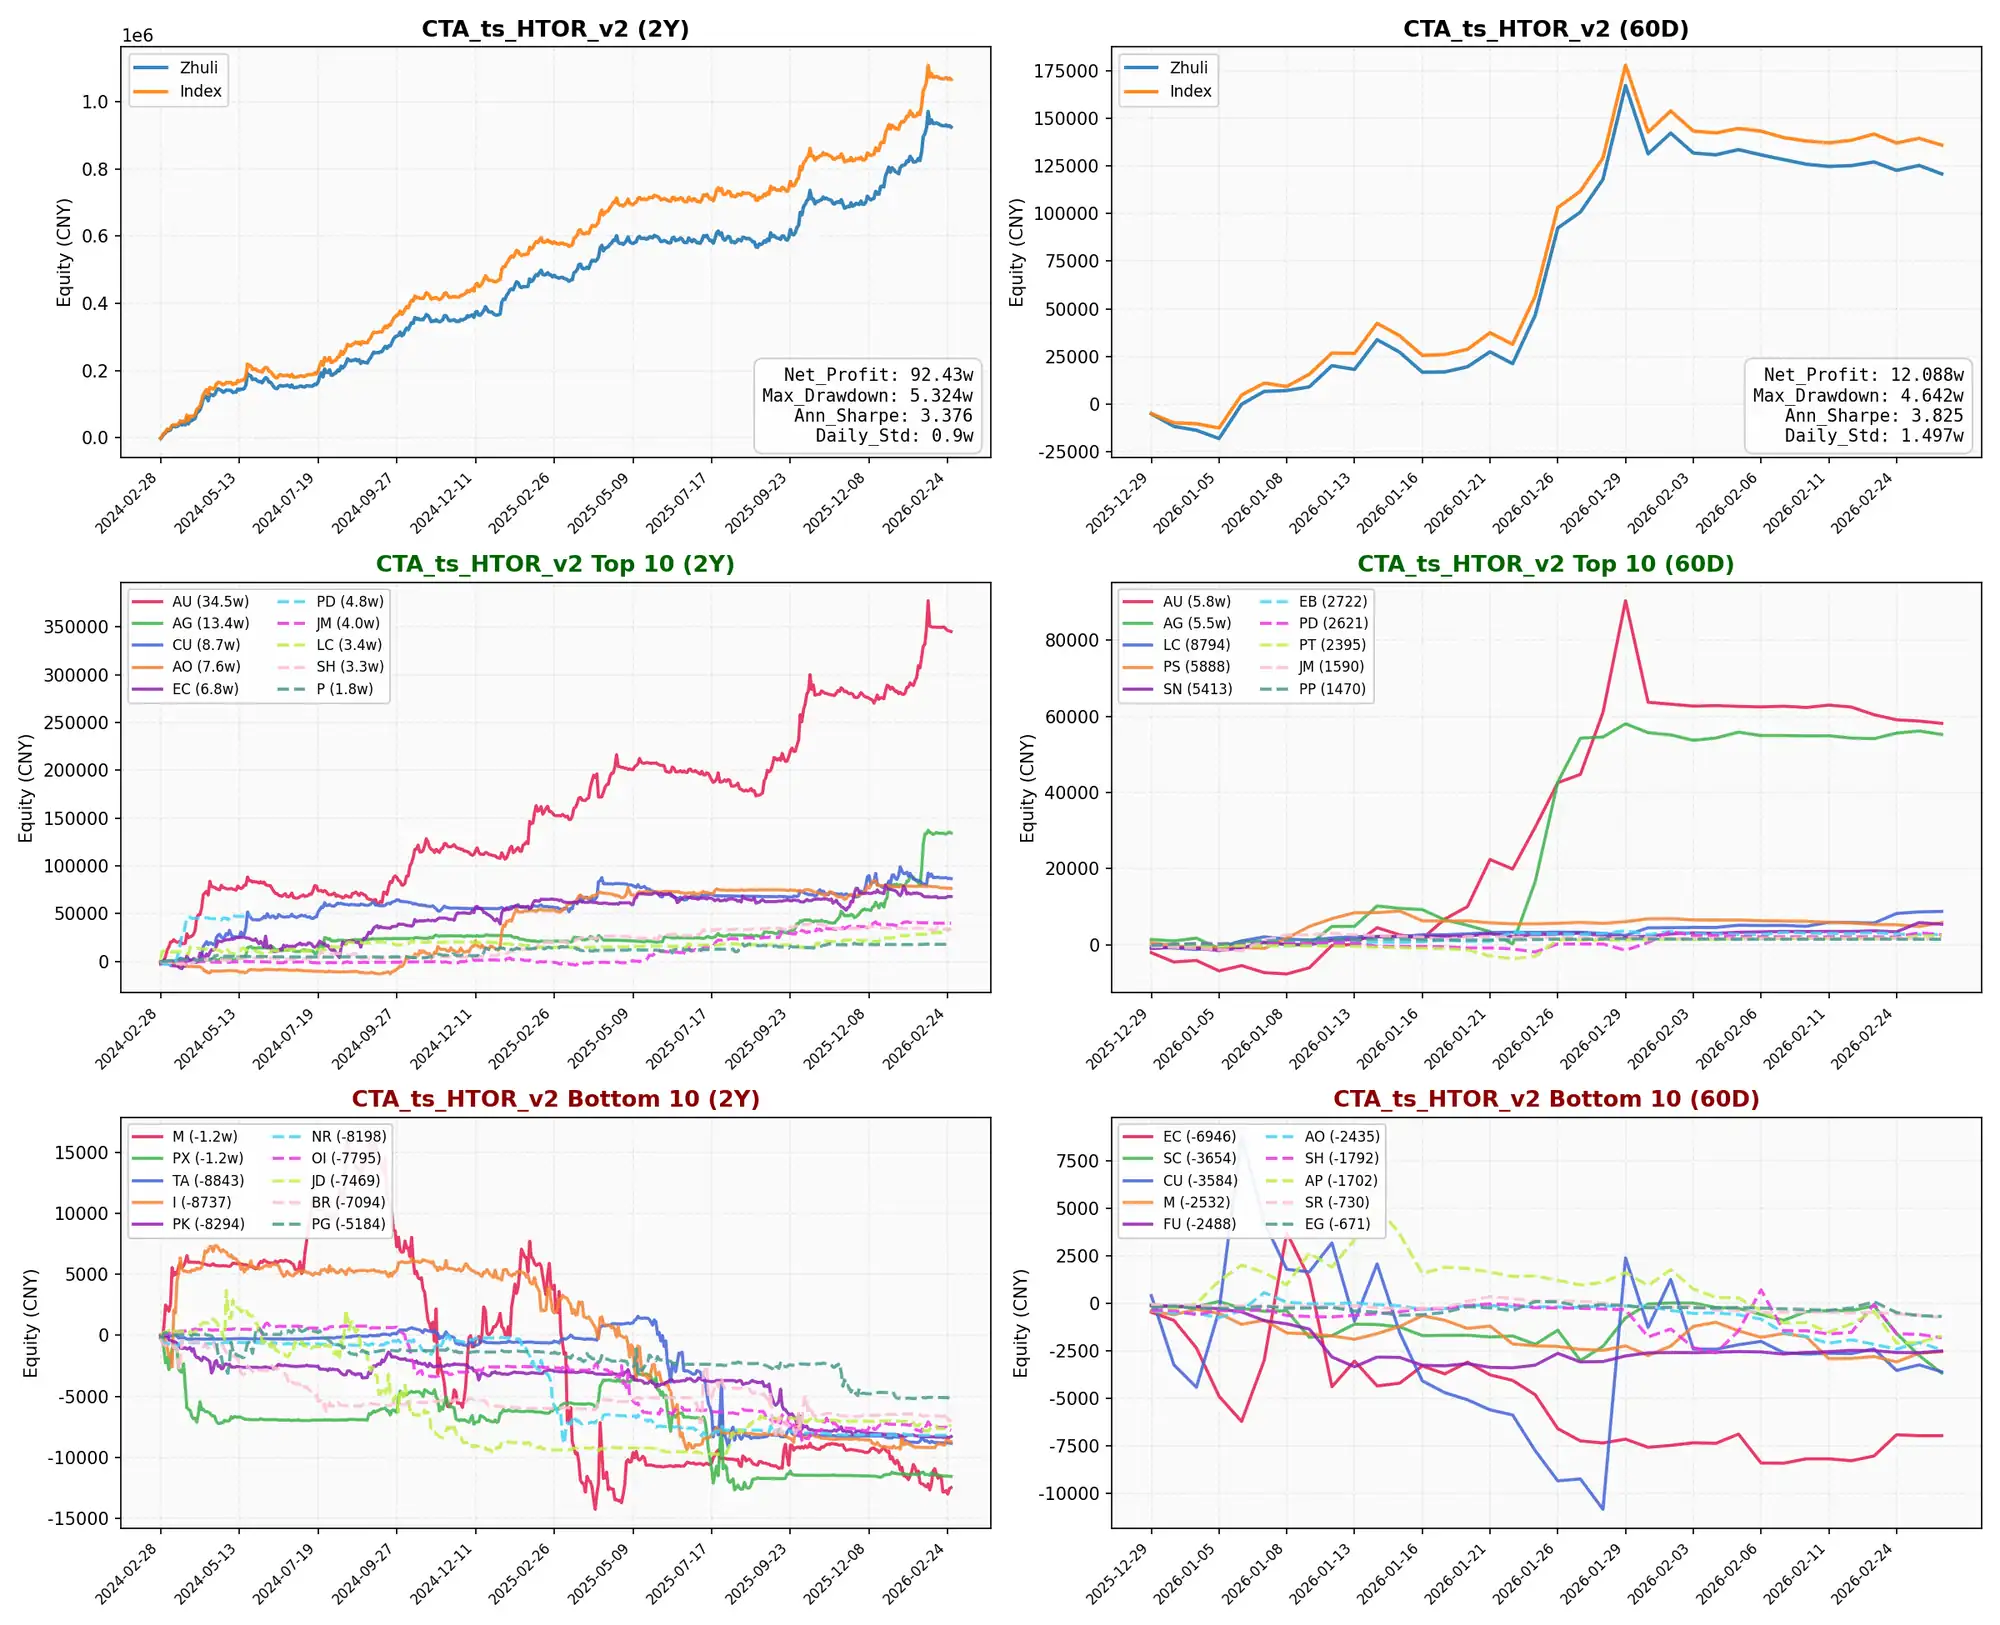
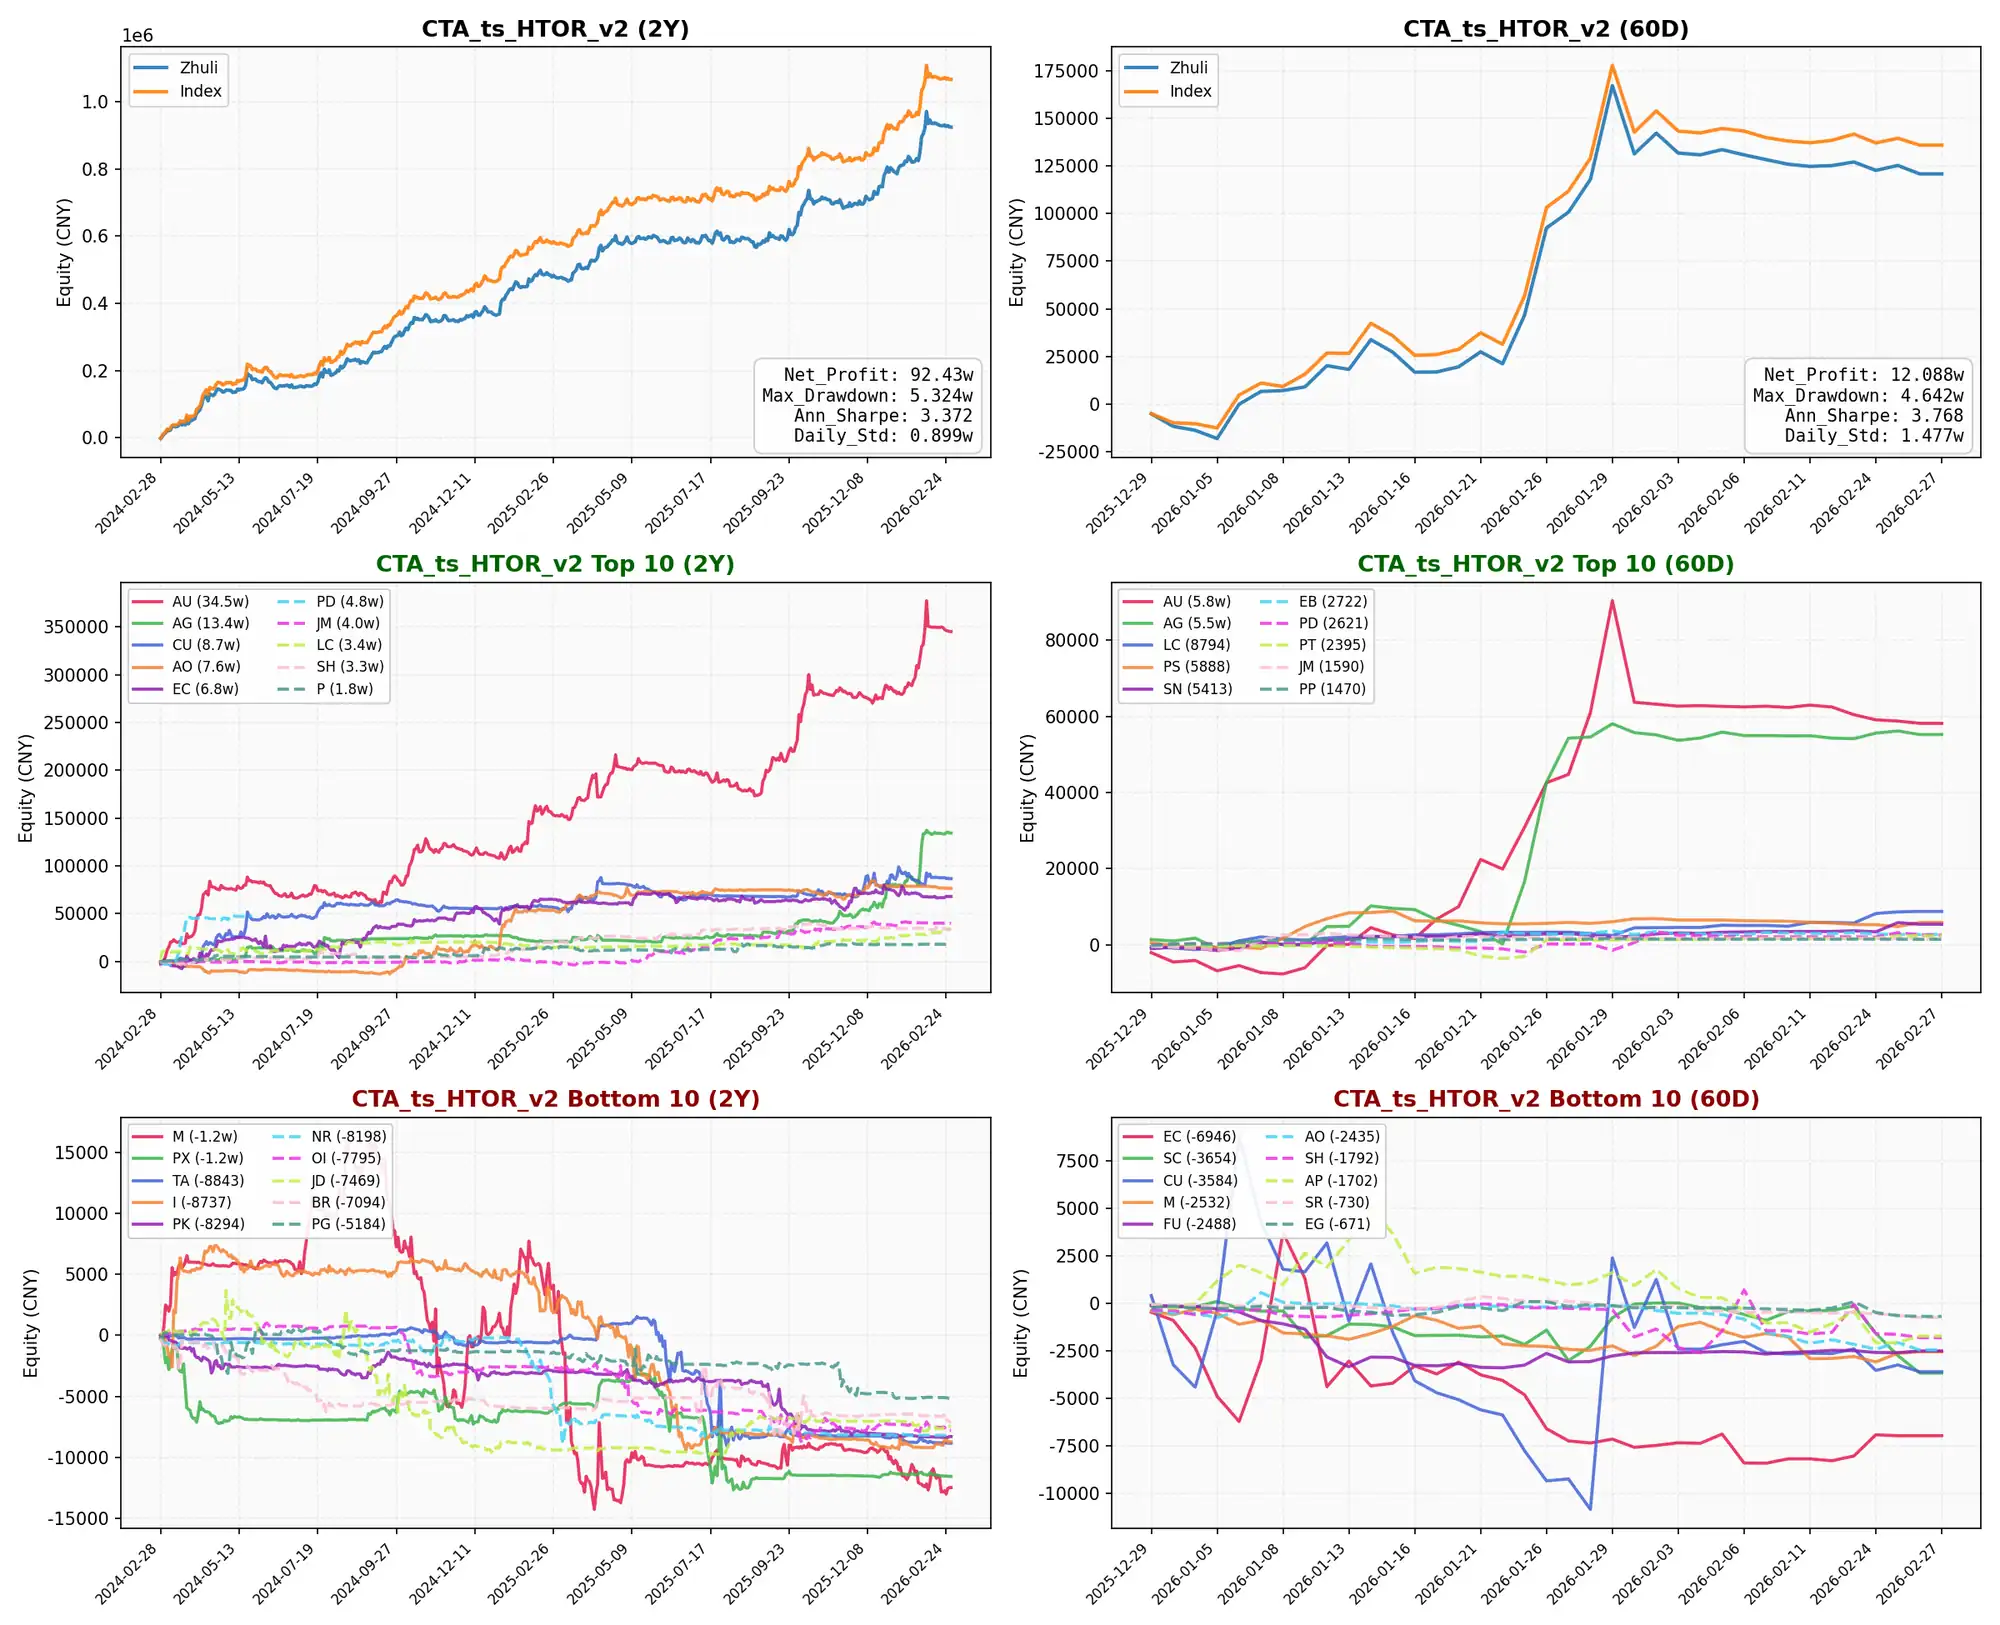
update 2026-02-27

diff --git a/group/index.html b/group/index.html
@@ -172,7 +172,7 @@
         <span class="rank">#5</span>
         <span class="name">CTA_ts_HTOR_v2</span>
         <span class="badge">60D Profit: 12.088w</span>
-        <span class="badge badge-sharpe">Sharpe: 3.825</span>
+        <span class="badge badge-sharpe">Sharpe: 3.768</span>
         <span class="badge badge-dd">MaxDD: 4.642w</span>
         <span class="toggle-icon">▼</span>
       </div>
@@ -181,12 +181,12 @@
           <table class="kpi-table">
             <tr><th colspan="4">2Y KPI</th></tr>
             <tr><td class="kpi-label">Net_Profit</td><td class="kpi-val">92.43w</td><td class="kpi-label">Max_Drawdown</td><td class="kpi-val">5.324w</td></tr>
-            <tr><td class="kpi-label">Ann_Sharpe</td><td class="kpi-val">3.376</td><td class="kpi-label">Daily_Std</td><td class="kpi-val">0.9w</td></tr>
+            <tr><td class="kpi-label">Ann_Sharpe</td><td class="kpi-val">3.372</td><td class="kpi-label">Daily_Std</td><td class="kpi-val">0.899w</td></tr>
           </table>
           <table class="kpi-table">
             <tr><th colspan="4">60D KPI</th></tr>
             <tr><td class="kpi-label">Net_Profit</td><td class="kpi-val">12.088w</td><td class="kpi-label">Max_Drawdown</td><td class="kpi-val">4.642w</td></tr>
-            <tr><td class="kpi-label">Ann_Sharpe</td><td class="kpi-val">3.825</td><td class="kpi-label">Daily_Std</td><td class="kpi-val">1.497w</td></tr>
+            <tr><td class="kpi-label">Ann_Sharpe</td><td class="kpi-val">3.768</td><td class="kpi-label">Daily_Std</td><td class="kpi-val">1.477w</td></tr>
           </table>
         </div>
         <img class="chart-img" data-src="CTA_ts_HTOR_v2.webp" alt="CTA_ts_HTOR_v2">
@@ -347,7 +347,7 @@
         <span class="rank">#12</span>
         <span class="name">ifp_complex_group</span>
         <span class="badge">60D Profit: 6.259w</span>
-        <span class="badge badge-sharpe">Sharpe: 1.826</span>
+        <span class="badge badge-sharpe">Sharpe: 1.8</span>
         <span class="badge badge-dd">MaxDD: 4.706w</span>
         <span class="toggle-icon">▼</span>
       </div>
@@ -356,12 +356,12 @@
           <table class="kpi-table">
             <tr><th colspan="4">2Y KPI</th></tr>
             <tr><td class="kpi-label">Net_Profit</td><td class="kpi-val">152.154w</td><td class="kpi-label">Max_Drawdown</td><td class="kpi-val">8.321w</td></tr>
-            <tr><td class="kpi-label">Ann_Sharpe</td><td class="kpi-val">3.956</td><td class="kpi-label">Daily_Std</td><td class="kpi-val">1.263w</td></tr>
+            <tr><td class="kpi-label">Ann_Sharpe</td><td class="kpi-val">3.951</td><td class="kpi-label">Daily_Std</td><td class="kpi-val">1.262w</td></tr>
           </table>
           <table class="kpi-table">
             <tr><th colspan="4">60D KPI</th></tr>
             <tr><td class="kpi-label">Net_Profit</td><td class="kpi-val">6.259w</td><td class="kpi-label">Max_Drawdown</td><td class="kpi-val">4.706w</td></tr>
-            <tr><td class="kpi-label">Ann_Sharpe</td><td class="kpi-val">1.826</td><td class="kpi-label">Daily_Std</td><td class="kpi-val">1.138w</td></tr>
+            <tr><td class="kpi-label">Ann_Sharpe</td><td class="kpi-val">1.8</td><td class="kpi-label">Daily_Std</td><td class="kpi-val">1.122w</td></tr>
           </table>
         </div>
         <img class="chart-img" data-src="ifp_complex_group.webp" alt="ifp_complex_group">
@@ -497,7 +497,7 @@
         <span class="rank">#18</span>
         <span class="name">CTA_ts_ltor</span>
         <span class="badge">60D Profit: -2.993w</span>
-        <span class="badge badge-sharpe">Sharpe: -0.821</span>
+        <span class="badge badge-sharpe">Sharpe: -0.809</span>
         <span class="badge badge-dd">MaxDD: 12.193w</span>
         <span class="toggle-icon">▼</span>
       </div>
@@ -511,7 +511,7 @@
           <table class="kpi-table">
             <tr><th colspan="4">60D KPI</th></tr>
             <tr><td class="kpi-label">Net_Profit</td><td class="kpi-val">-2.993w</td><td class="kpi-label">Max_Drawdown</td><td class="kpi-val">12.193w</td></tr>
-            <tr><td class="kpi-label">Ann_Sharpe</td><td class="kpi-val">-0.821</td><td class="kpi-label">Daily_Std</td><td class="kpi-val">1.951w</td></tr>
+            <tr><td class="kpi-label">Ann_Sharpe</td><td class="kpi-val">-0.809</td><td class="kpi-label">Daily_Std</td><td class="kpi-val">1.923w</td></tr>
           </table>
         </div>
         <img class="chart-img" data-src="CTA_ts_ltor.webp" alt="CTA_ts_ltor">
